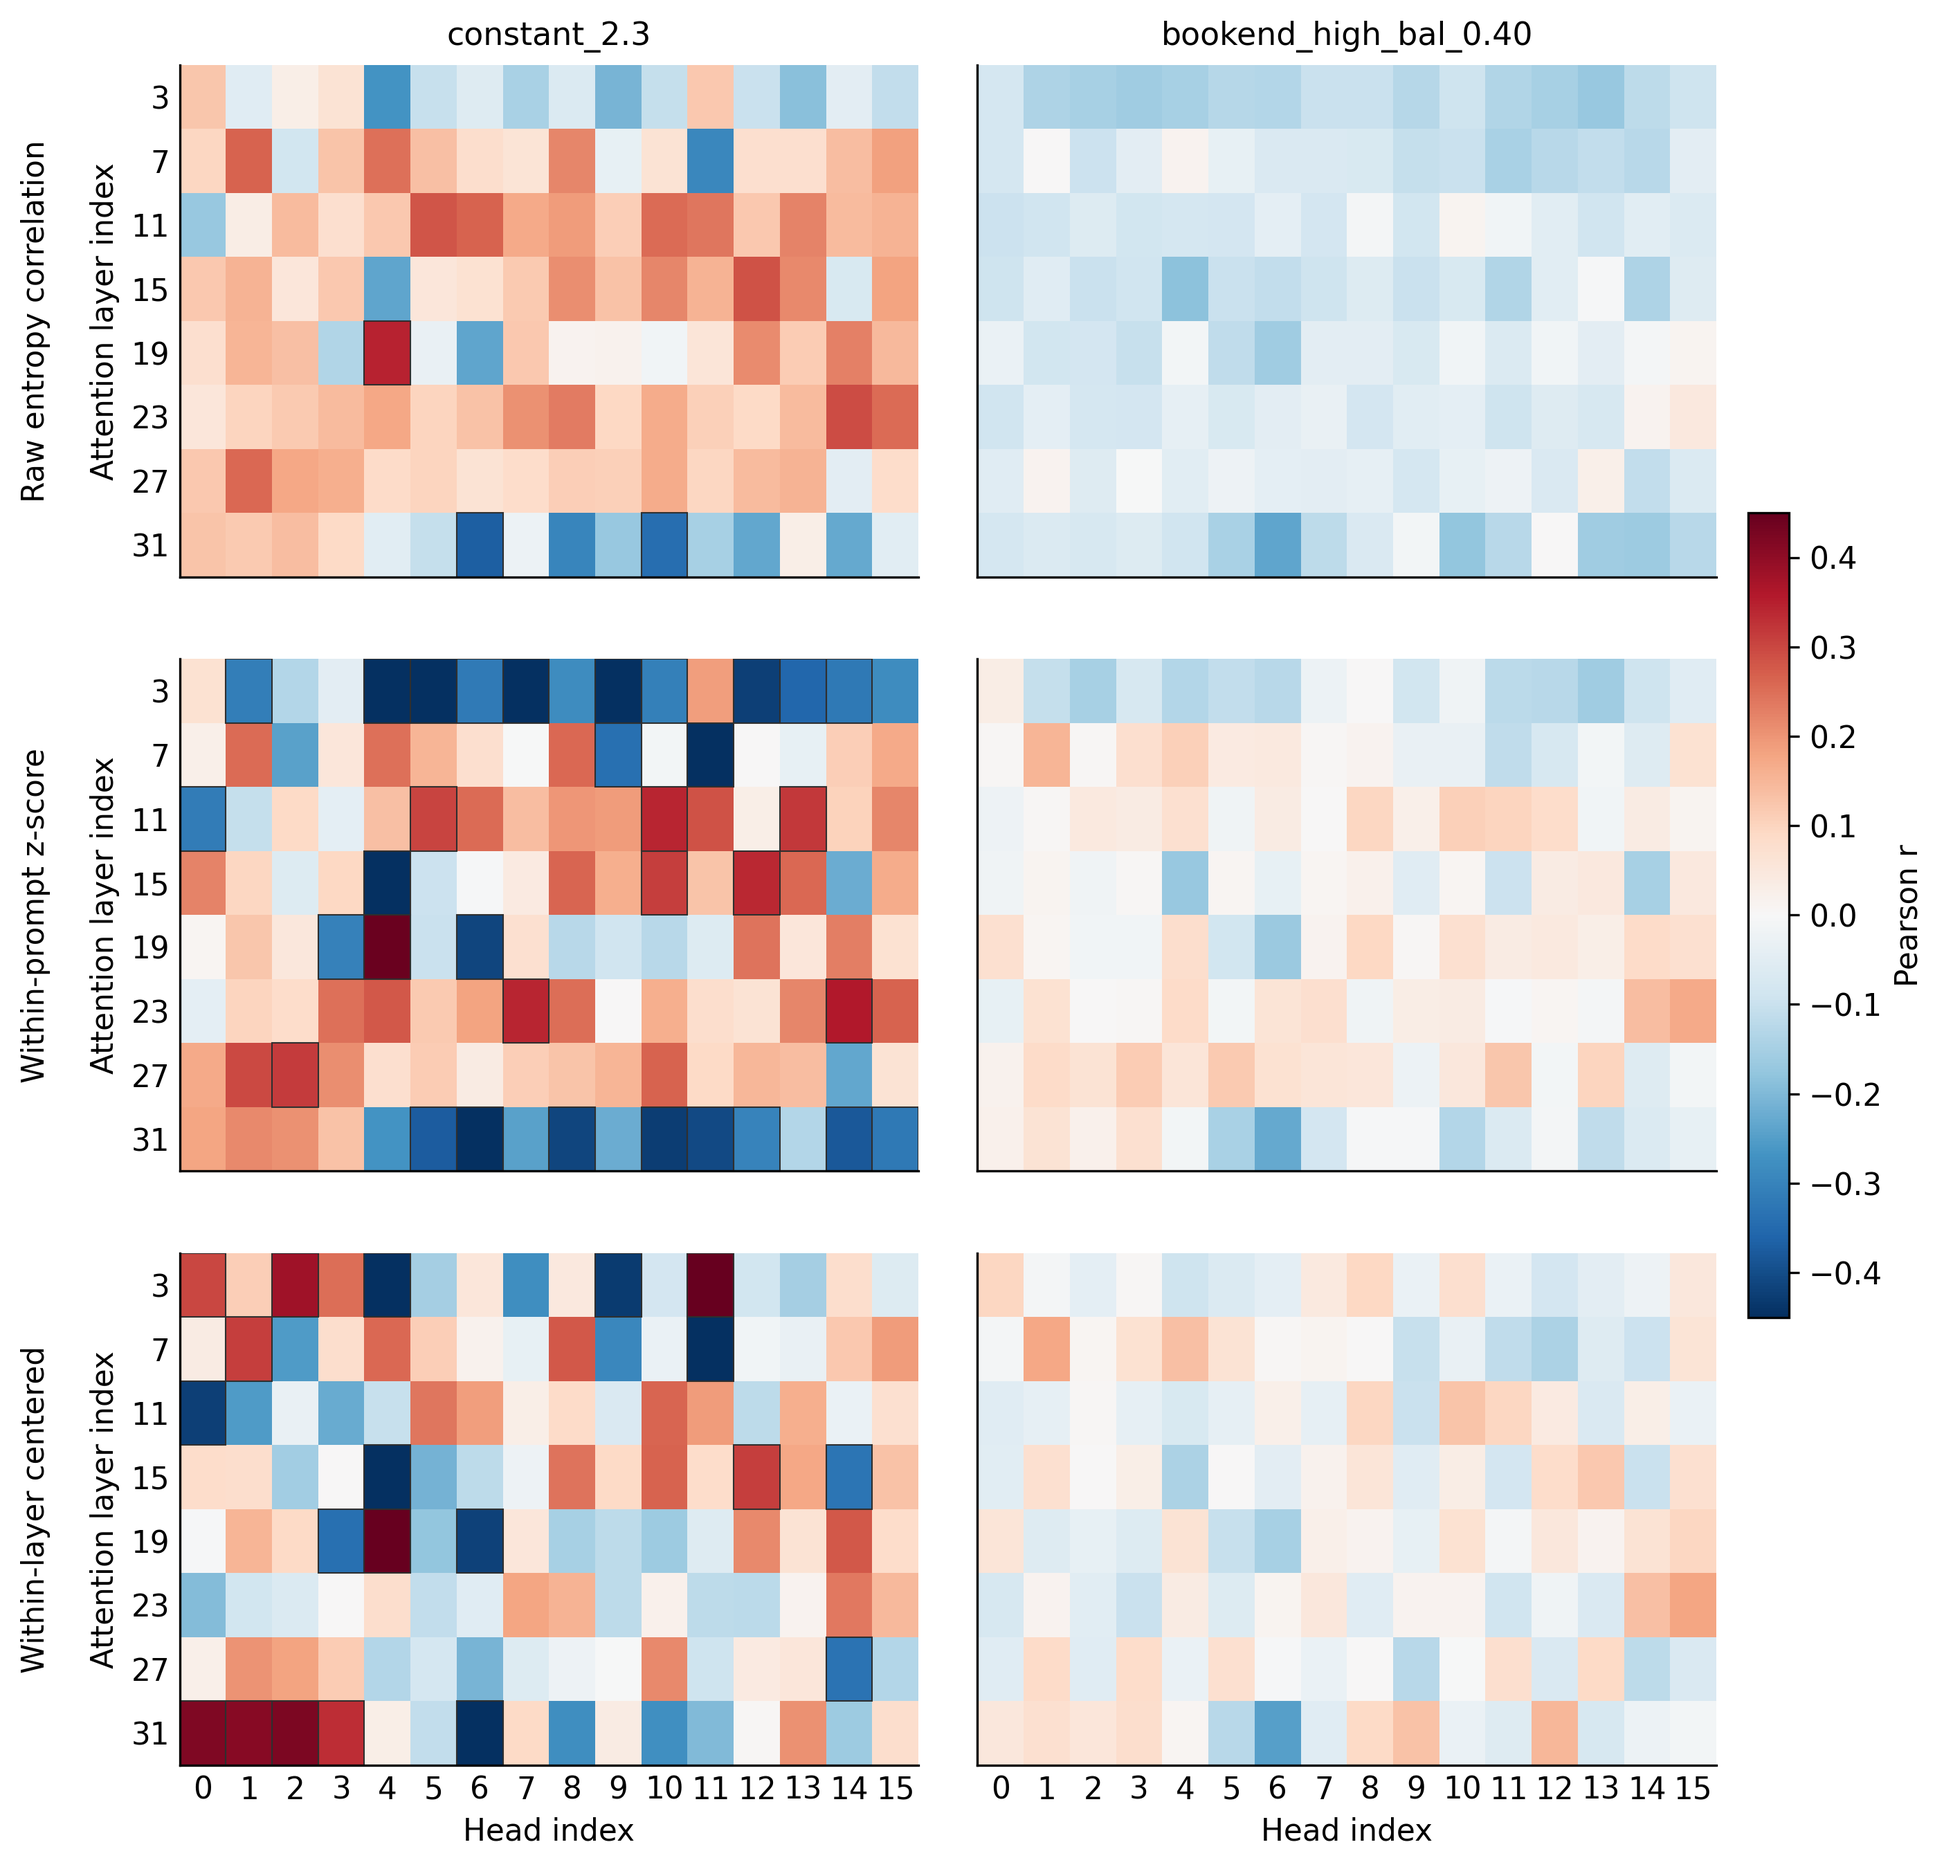
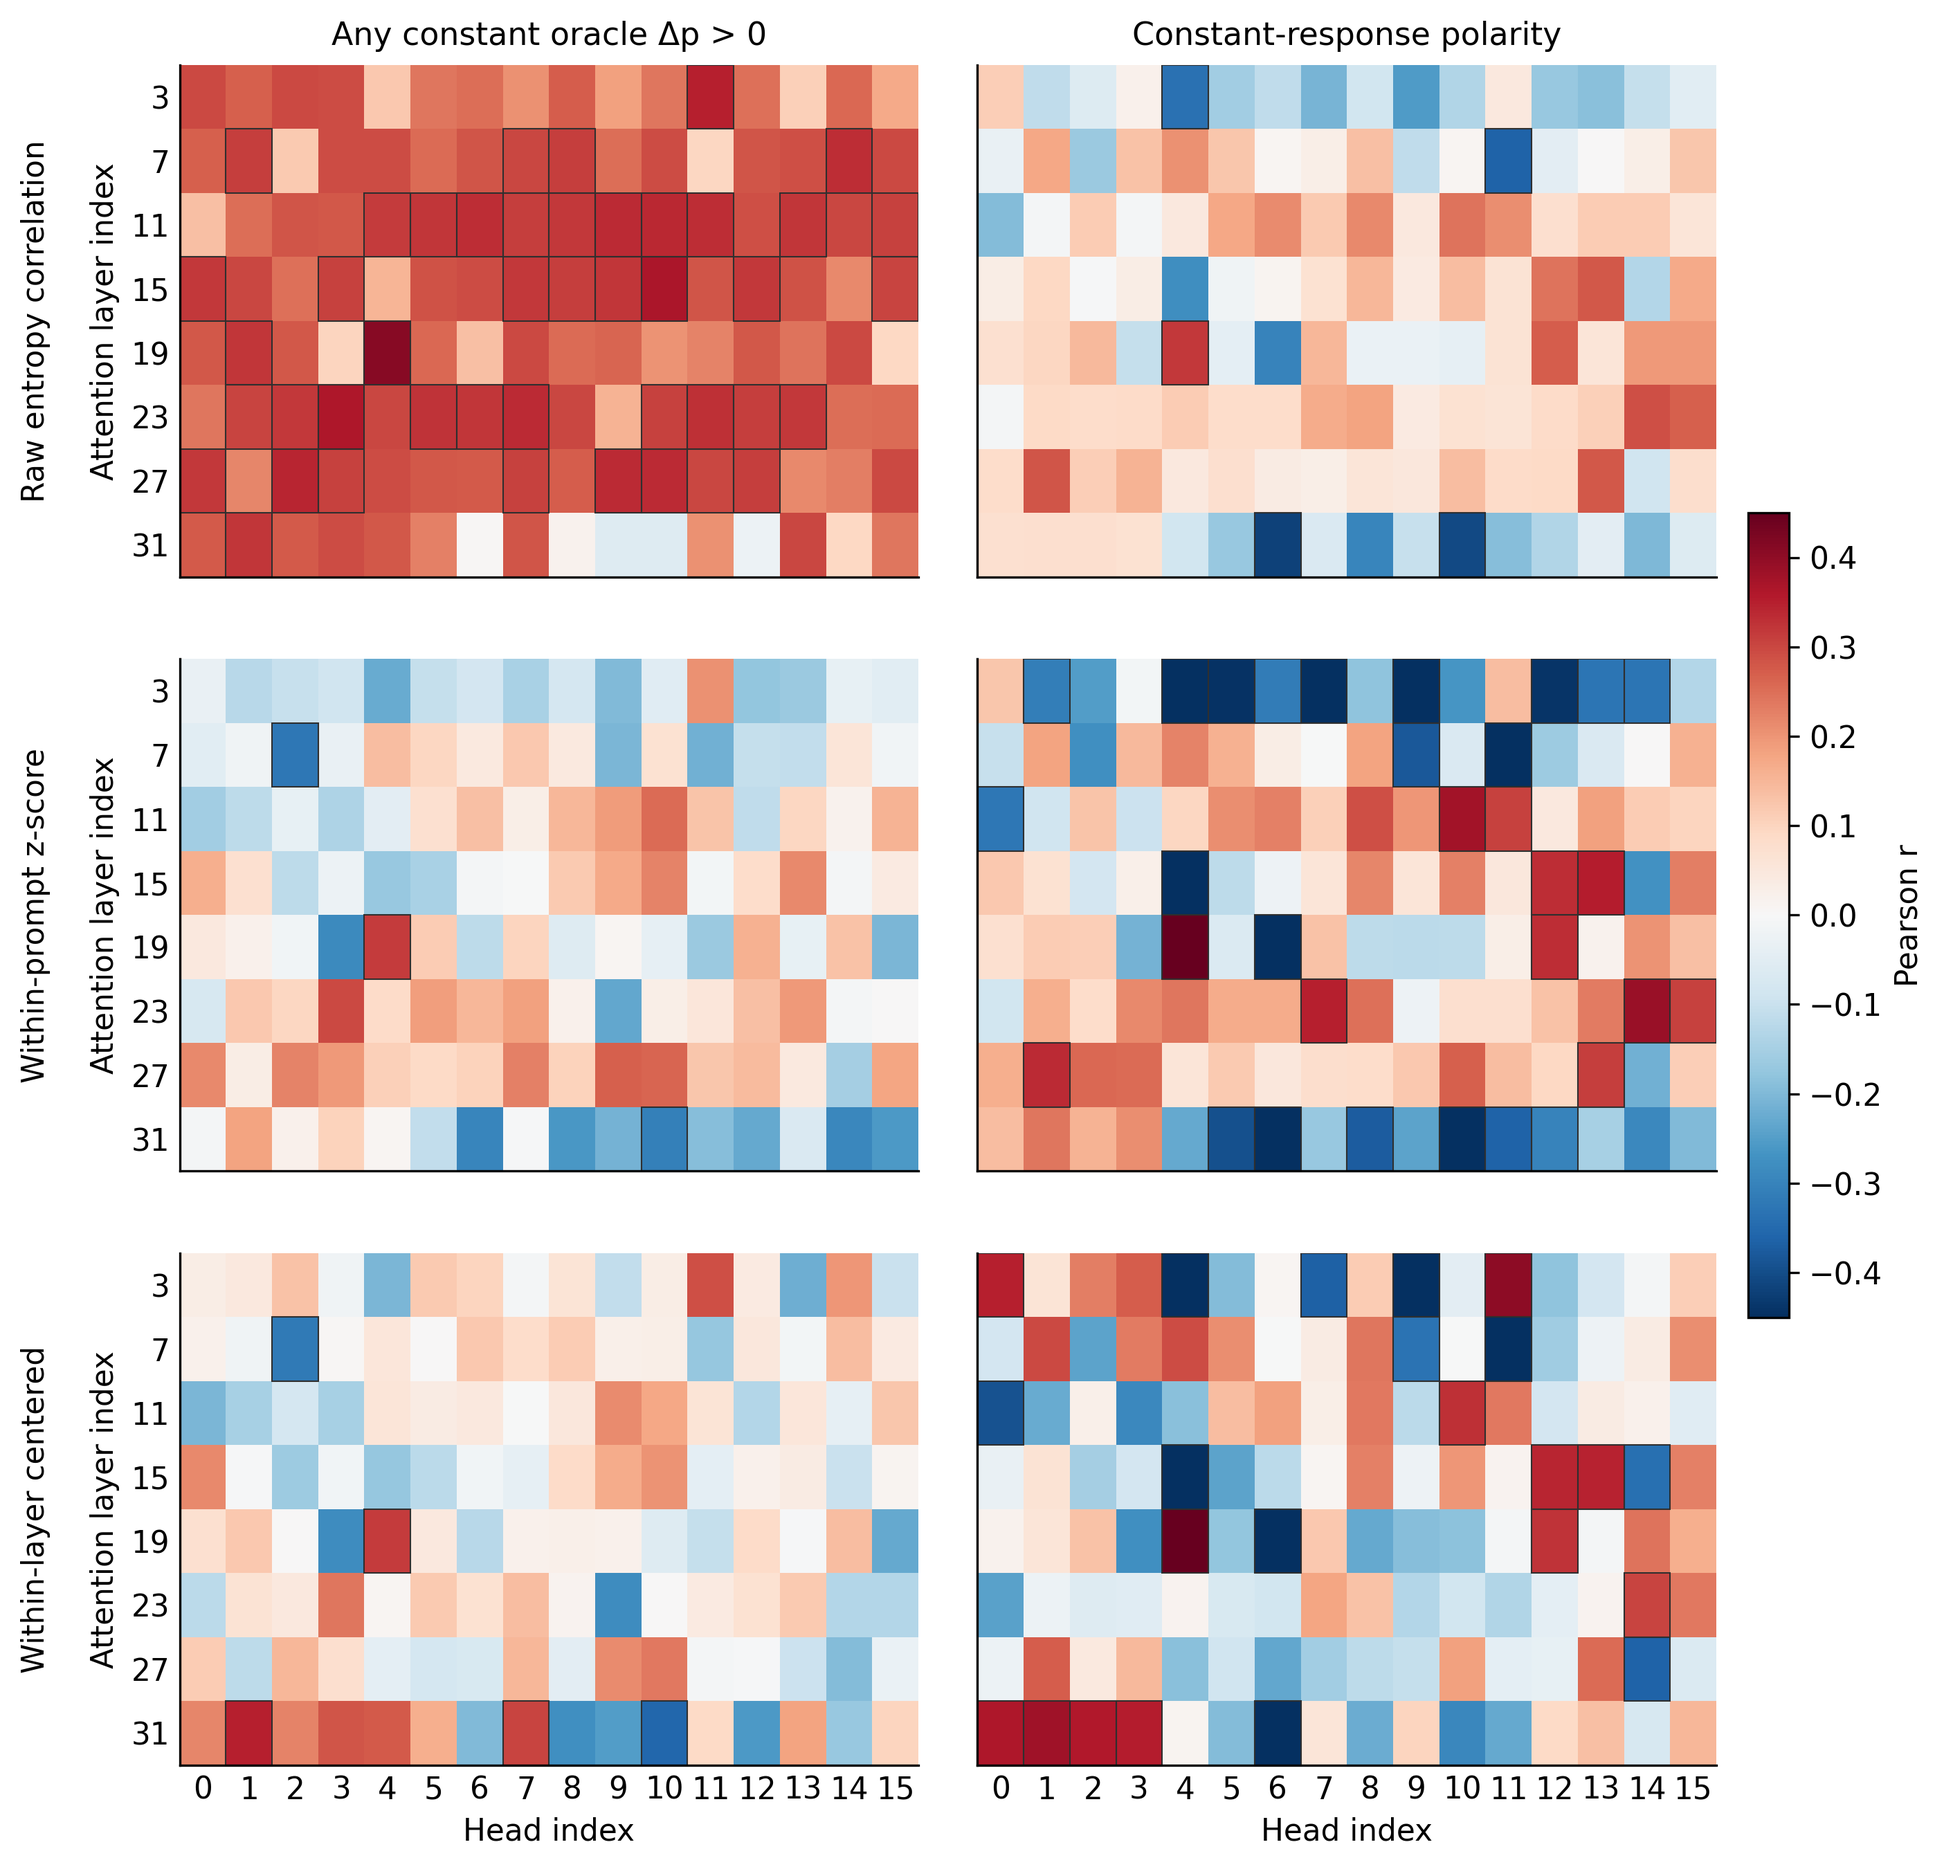
update heatmap

diff --git a/docs/figurelib/head_entropy_correlations.py b/docs/figurelib/head_entropy_correlations.py
@@ -44,6 +44,64 @@ def load_delta_by_prompt(joined_path: Path, profile_name: str) -> dict[str, floa
     return deltas
 
 
+def load_oracle_positive_constant_label_by_prompt(
+    joined_path: Path,
+    *,
+    min_delta: float = 0.0,
+) -> dict[str, float]:
+    """Binary label for whether any non-baseline constant profile helps a prompt."""
+    best_delta_by_prompt: dict[str, float] = {}
+    with joined_path.open(newline="") as f:
+        reader = csv.DictReader(f)
+        for row in reader:
+            if row["g_profile"] == "baseline":
+                continue
+            if row["g_function"] != "constant":
+                continue
+            try:
+                delta = float(row["delta_target_prob"])
+            except (TypeError, ValueError):
+                continue
+            prompt_id = row["prompt_id"]
+            best_delta_by_prompt[prompt_id] = max(
+                best_delta_by_prompt.get(prompt_id, float("-inf")),
+                delta,
+            )
+
+    return {
+        prompt_id: float(best_delta > min_delta)
+        for prompt_id, best_delta in best_delta_by_prompt.items()
+    }
+
+
+def load_constant_response_polarity_by_prompt(joined_path: Path) -> dict[str, float]:
+    """Signed label for whether constant-profile intervention helps or hurts on average."""
+    values_by_prompt: dict[str, list[float]] = {}
+    with joined_path.open(newline="") as f:
+        reader = csv.DictReader(f)
+        for row in reader:
+            if row["g_profile"] == "baseline":
+                continue
+            if row["g_function"] != "constant":
+                continue
+            try:
+                delta = float(row["delta_target_prob"])
+            except (TypeError, ValueError):
+                continue
+            values_by_prompt.setdefault(row["prompt_id"], []).append(delta)
+
+    labels: dict[str, float] = {}
+    for prompt_id, values in values_by_prompt.items():
+        mean_delta = float(np.mean(values))
+        if mean_delta > 0:
+            labels[prompt_id] = 1.0
+        elif mean_delta < 0:
+            labels[prompt_id] = -1.0
+        else:
+            labels[prompt_id] = 0.0
+    return labels
+
+
 def _corr_map_from_vectors(
     prompt_ids: list[str],
     vectors: dict[str, np.ndarray],
@@ -494,15 +552,30 @@ def plot_head_entropy_normalization_comparison(
     if len(transformed_sets) == 1:
         axes = np.array([axes])
 
+    def resolve_target_values(target_name: str) -> dict[str, float]:
+        if target_name == "oracle_any_constant_positive":
+            return load_oracle_positive_constant_label_by_prompt(joined_path)
+        if target_name == "constant_response_polarity":
+            return load_constant_response_polarity_by_prompt(joined_path)
+        return load_delta_by_prompt(joined_path, target_name)
+
+    def resolve_title(target_name: str) -> str:
+        if target_name == "oracle_any_constant_positive":
+            return "Any constant oracle Δp > 0"
+        if target_name == "constant_response_polarity":
+            return "Constant-response polarity"
+        return target_name
+
     for row_idx, (row_title, transformed) in enumerate(transformed_sets.items()):
         for col_idx, profile in enumerate(profiles):
             ax = axes[row_idx, col_idx]
-            if transformed is None:
+            if transformed is None and profile in raw_corr_matrices:
                 matrix = raw_corr_matrices[profile]
             else:
-                deltas = load_delta_by_prompt(joined_path, profile)
-                prompt_ids = sorted(set(deltas) & set(transformed))
-                matrix = _corr_map_from_vectors(prompt_ids, transformed, deltas, n_layers)
+                target_values = resolve_target_values(profile)
+                vector_source = entropy_vectors if transformed is None else transformed
+                prompt_ids = sorted(set(target_values) & set(vector_source))
+                matrix = _corr_map_from_vectors(prompt_ids, vector_source, target_values, n_layers)
 
             image = ax.pcolormesh(
                 x_edges,
@@ -523,7 +596,7 @@ def plot_head_entropy_normalization_comparison(
             ax.tick_params(length=0)
 
             if row_idx == 0:
-                ax.set_title(profile, fontsize=11, pad=7)
+                ax.set_title(resolve_title(profile), fontsize=11, pad=7)
             if col_idx == 0:
                 ax.set_ylabel(f"{row_title}\n\nAttention layer index")
             if row_idx == len(transformed_sets) - 1:

diff --git a/docs/make_head_entropy_normalization_comparison_figure.py b/docs/make_head_entropy_normalization_comparison_figure.py
@@ -22,5 +22,5 @@ if __name__ == "__main__":
         correlations_path=analysis / "analysis_head_correlations.json",
         joined_path=analysis / "analysis_joined_long.csv",
         output_path=out_png,
-        profiles=["constant_2.3", "bookend_high_bal_0.40"],
+        profiles=["oracle_any_constant_positive", "constant_response_polarity"],
     )
